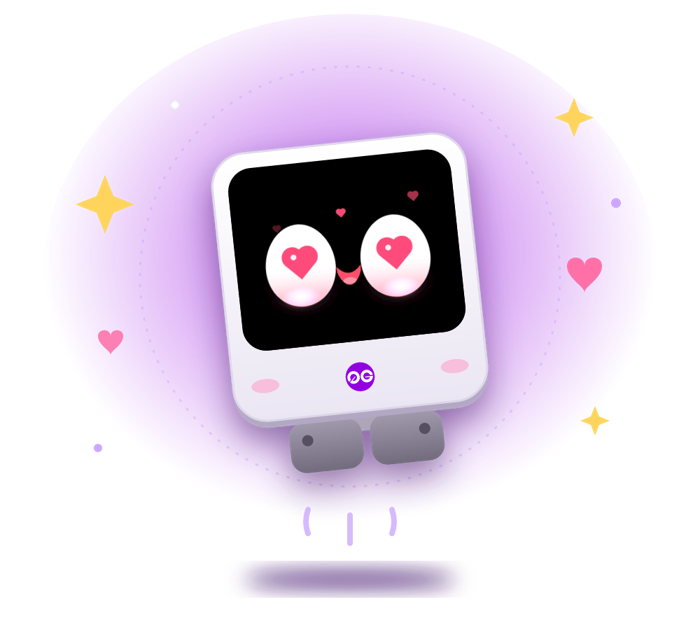
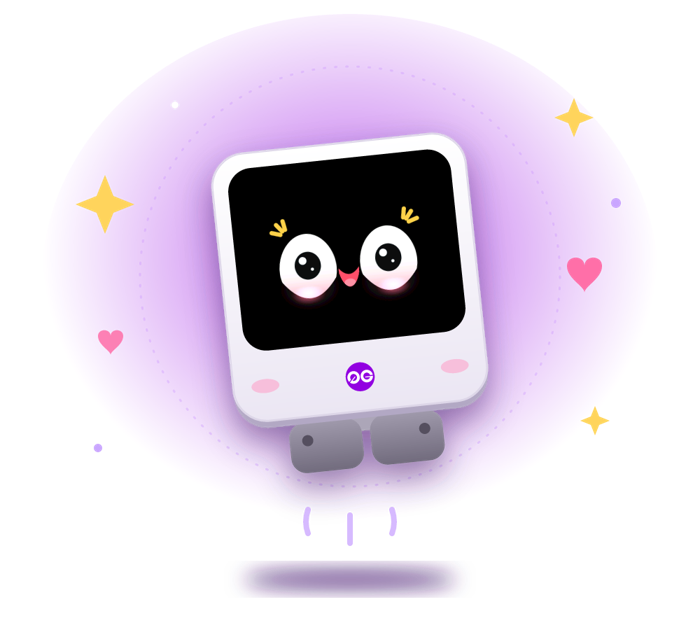
Illustration: the happy face, smaller and centred on the screen (#9)

Changed region(s): [[0.36, 0.3016, 0.63, 0.5127]]

diff --git a/tools/build_site.py b/tools/build_site.py
@@ -21,7 +21,7 @@ REPO = "https://github.com/0gfoundation/project-floaty"
 
 HERO = f"""
   <div class="hero">
-    <img src="floaty.png" alt="Floaty, a little robot with heart eyes, floating" width="220">
+    <img src="floaty.png" alt="Floaty, a happy little robot, floating" width="220">
     <div>
       <h2>Floaty's faces</h2>
       <p>Floaty is a palm-sized AI agent with a face, built in public by the 0G DevRel team. Its brain thinks on

diff --git a/README.md b/README.md
@@ -1,6 +1,6 @@
 <div align="center">
 
-<img src="docs/floaty.png" alt="Floaty, a little robot with heart eyes, floating" width="380">
+<img src="docs/floaty.png" alt="Floaty, a happy little robot, floating" width="380">
 
 # Project Floaty
 
